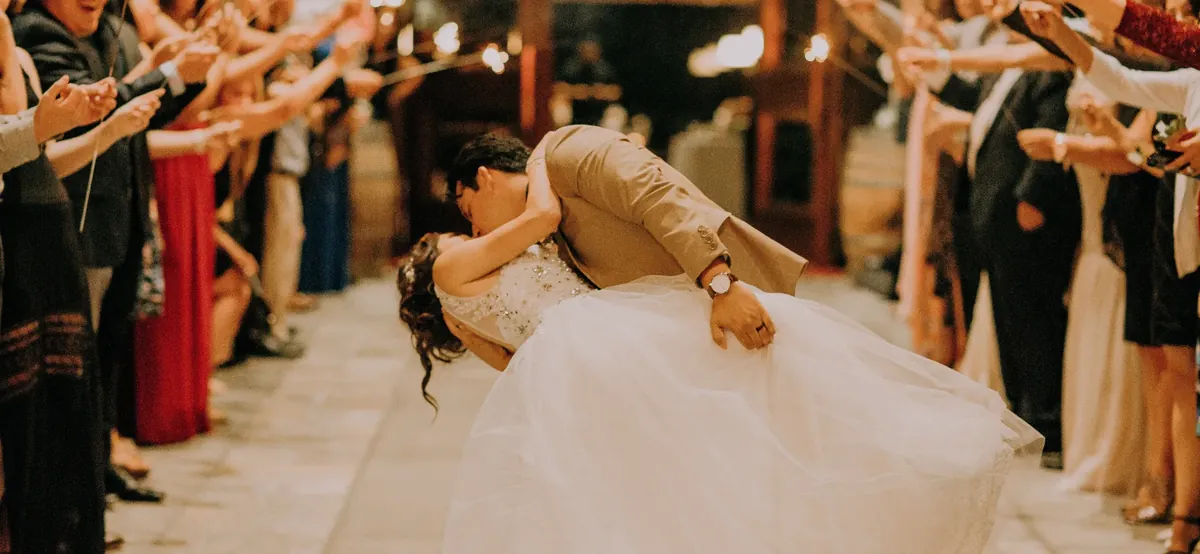
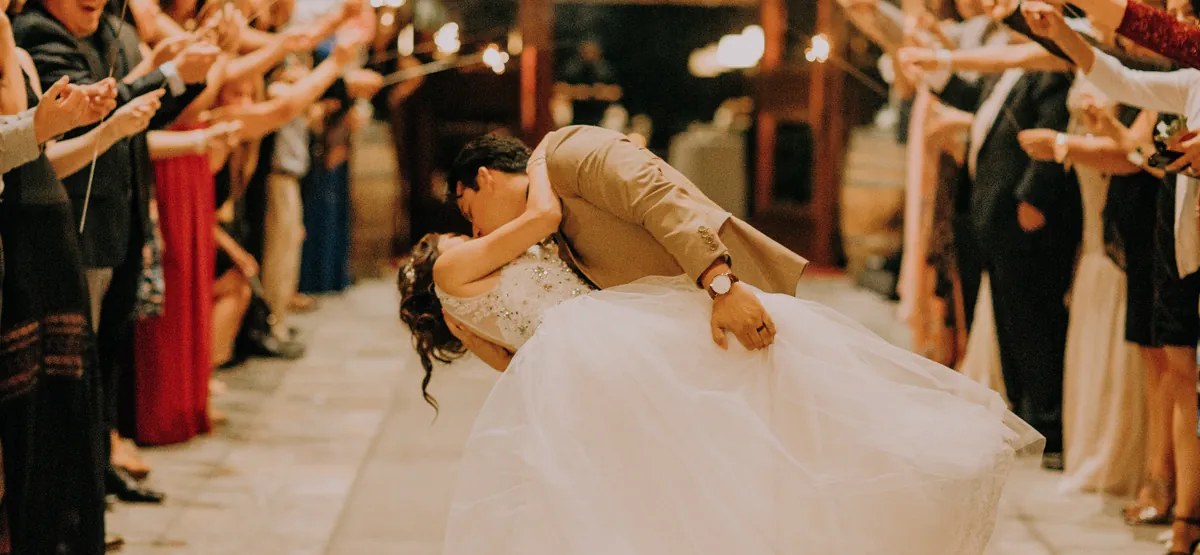
correction de la dimension 1920 et 1200 de l'image edward-cisneros

diff --git a/index.html b/index.html
@@ -59,7 +59,7 @@
 							sizes="100vw">
 					</div>
 					<div class="carousel-item">
-						<img src="./assets/images/slider/edward-cisneros-1200.webp" width="1200" height="554" loading="lazy" class="d-block w-100"
+						<img src="./assets/images/slider/edward-cisneros-1200.webp" width="1200" height="555" loading="lazy" class="d-block w-100"
 							alt="Photographie de mariage avec un baiser romantique des mariés, invités formant une haie lumineuse"
 							srcset="./assets/images/slider/edward-cisneros-480.webp 480w,
 									./assets/images/slider/edward-cisneros-768.webp 768w,
